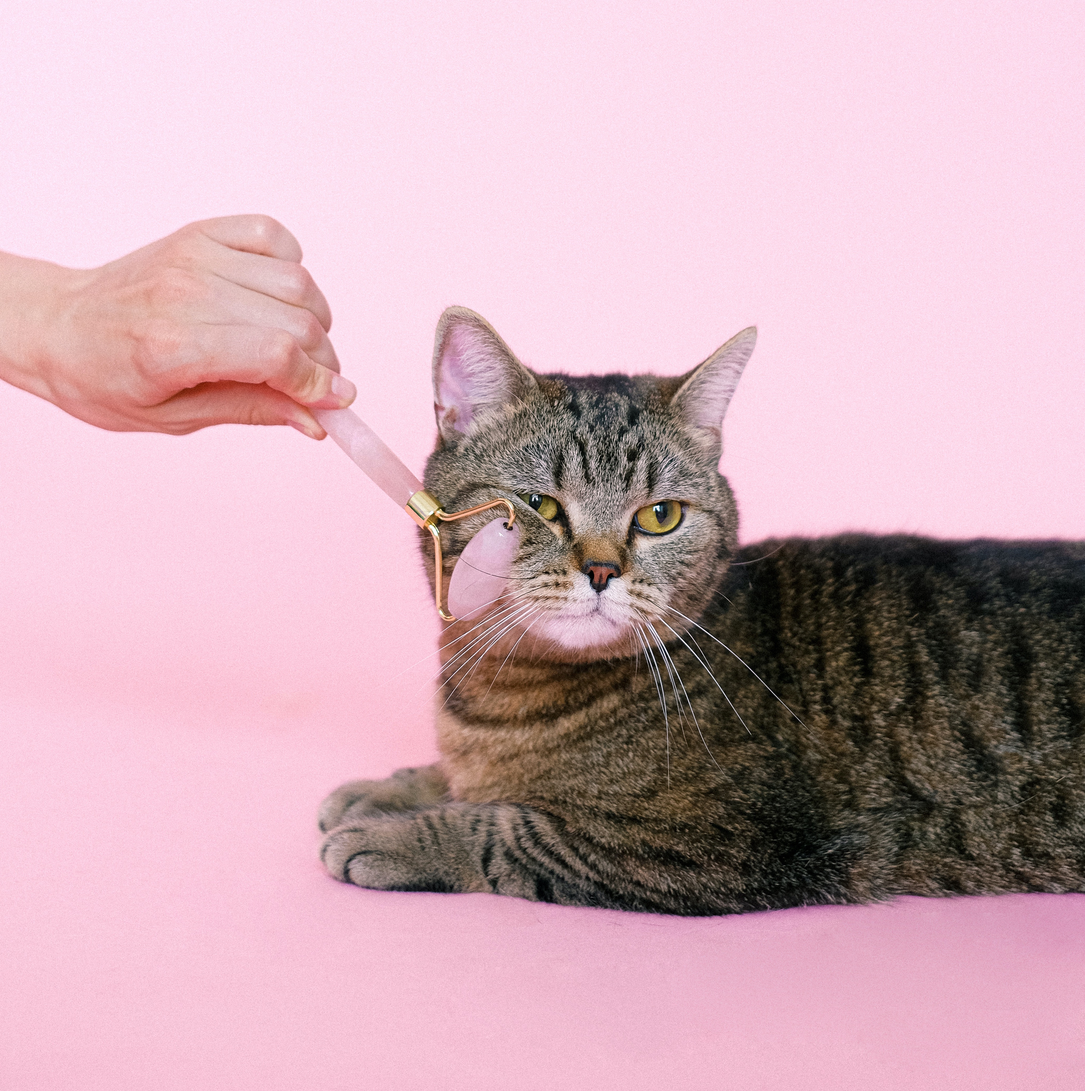
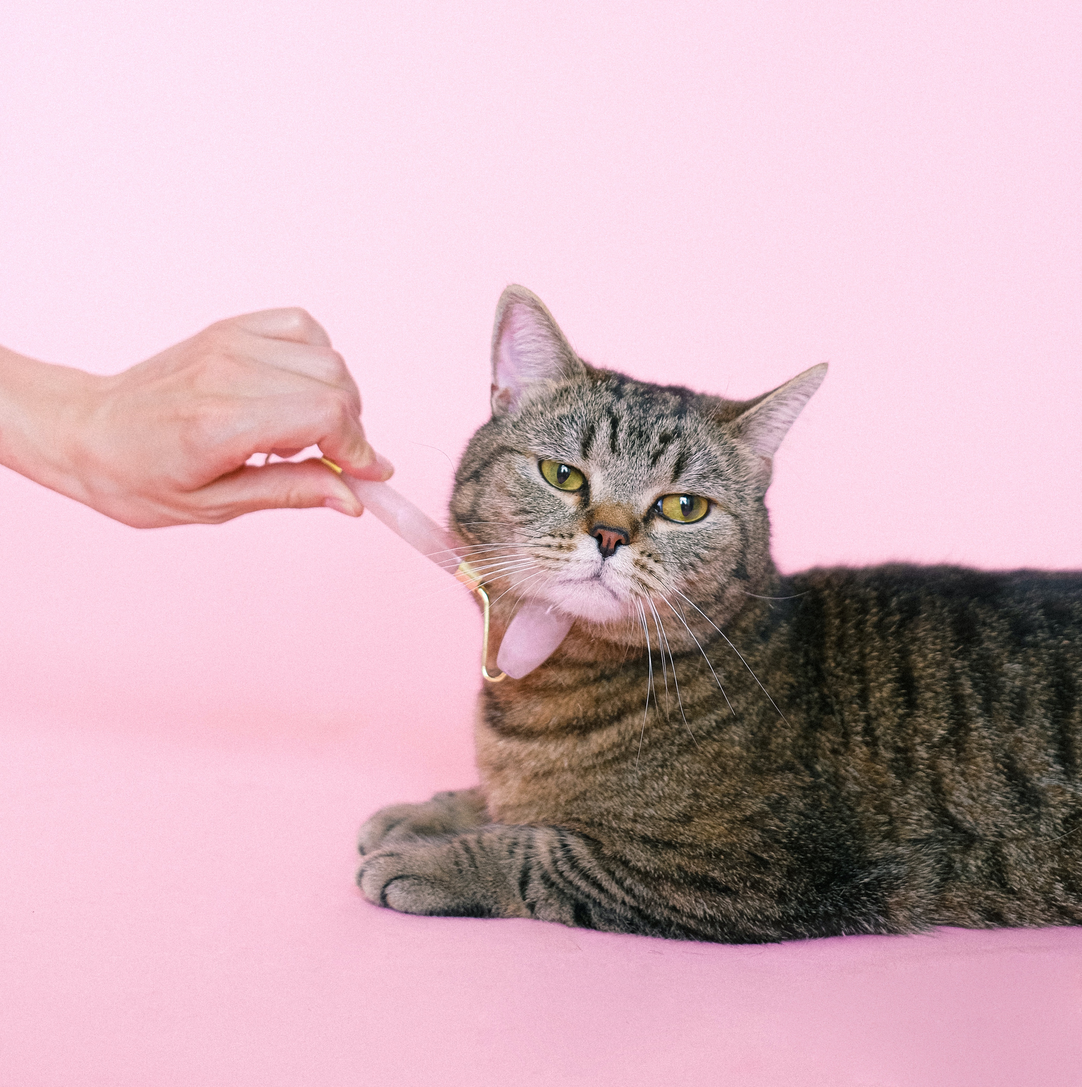
update cat image cropping

Changed region(s): [[0.0, 0.1868, 1.0, 0.8716]]

diff --git a/blog/emotional-intelligence.html b/blog/emotional-intelligence.html
@@ -31,9 +31,9 @@
   <div class="header"><h1>Emotional Intelligence</h1></div>
 
 <div class="num-wide-banner">
-  <img src="/styles/images/sprint-3-core-blog-images/cat-face-roller.jpg">
-  <img src="/styles/images/sprint-3-core-blog-images/cat-shower-cap.jpg">
-  <img src="/styles/images/sprint-3-core-blog-images/cat-sunglasses.jpg">
+  <img src="/styles/images/sprint-3-core-blog-images/cat-face-roller2.jpg">
+  <img src="/styles/images/sprint-3-core-blog-images/cat-shower-cap2.jpg">
+  <img src="/styles/images/sprint-3-core-blog-images/cat-sunglasses2.jpg">
 
 
 </div>
